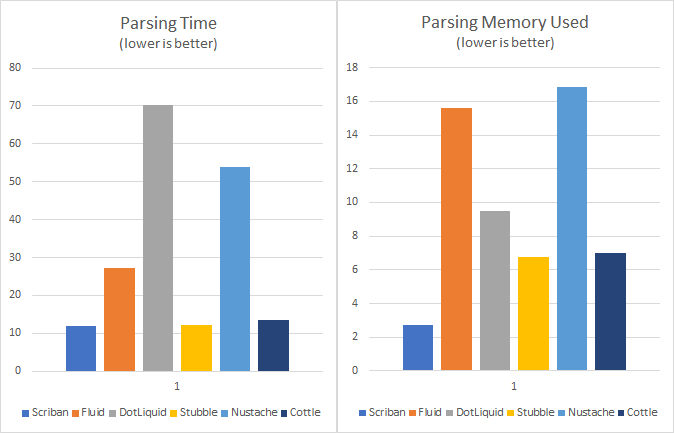
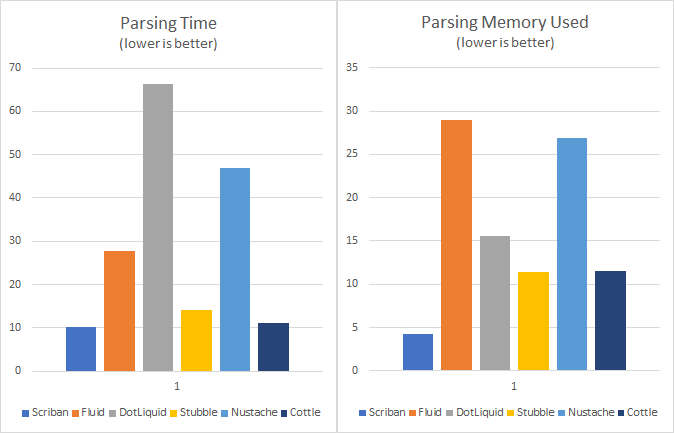
Update benchmarks

diff --git a/src/Scriban.Benchmarks/Program.cs b/src/Scriban.Benchmarks/Program.cs
@@ -1,17 +1,11 @@
 using System;
 using System.Collections.Generic;
-using System.Diagnostics;
 using System.Dynamic;
 using System.IO;
-using System.Reflection;
-using System.Text;
 using System.Threading.Tasks;
 using BenchmarkDotNet.Attributes;
 using BenchmarkDotNet.Running;
-using Microsoft.AspNetCore.Razor.Language;
-using Microsoft.CodeAnalysis;
-using Microsoft.CodeAnalysis.CSharp;
-using Microsoft.CodeAnalysis.Text;
+using DotLiquid;
 using Scriban.Functions;
 using Scriban.Runtime;
 
@@ -201,6 +195,7 @@ namespace Scriban.Benchmarks
         private const string Lorem = "Lorem ipsum dolor sit amet, consectetur adipiscing elit, sed do eiusmod tempor incididunt ut labore et dolore magna aliqua. Ut enim ad minim veniam, quis nostrud exercitation ullamco laboris nisi ut aliquip ex ea commodo consequat. Duis aute irure dolor in reprehenderit in voluptate velit esse cillum dolore eu fugiat nulla pariatur. Excepteur sint occaecat cupidatat non proident, sunt in culpa qui officia deserunt mollit anim id est laborum";
 
         private readonly List<Product> _products;
+        private readonly List<ScriptObject> _scribanProducts;
         private readonly List<DotLiquid.Hash> _dotLiquidProducts;
 
         private readonly Dictionary<Cottle.Value, Cottle.Value> _cottleStringStore;
@@ -222,15 +217,20 @@ namespace Scriban.Benchmarks
 
             const int ProductCount = 500;
             _products = new List<Product>(ProductCount);
+            _scribanProducts = new List<ScriptObject>();
             _dotLiquidProducts = new List<DotLiquid.Hash>(ProductCount);
-            
             var cottleValues = new List<Cottle.Value>();
+
             for (int i = 0; i < ProductCount; i++)
             {
                 var product = new Product("Name" + i, i, Lorem);
                 _products.Add(product);
-                var hash = DotLiquid.Hash.FromAnonymousObject(product);
+
+                var hash = new Hash() { ["name"] = product.Name, ["price"] = product.Price, ["description"] = product.Description };
                 _dotLiquidProducts.Add(hash);
+
+                var obj = new ScriptObject {["name"] = product.Name, ["price"] = product.Price, ["description"] = product.Description};
+                _scribanProducts.Add(obj);
                 cottleValues.Add(new Cottle.Values.ReflectionValue(product)); 
             }
 
@@ -256,12 +256,15 @@ namespace Scriban.Benchmarks
             // for a slightly higher efficiency and the reuse of a TemplateContext on the same thread
             //return _scribanTemplate.Render(new { products = _dotLiquidProducts });
 
-            var obj = new ScriptObject { { "products", _dotLiquidProducts } };
+            var obj = new ScriptObject { { "products", _scribanProducts } };
             _liquidTemplateContext.PushGlobal(obj);
+            _liquidTemplateContext.PushOutput(StringBuilderOutput.GetThreadInstance());
             var result = _scribanTemplate.Render(_liquidTemplateContext);
+            _liquidTemplateContext.PopOutput();
             _liquidTemplateContext.PopGlobal();
             return result;
         }
+
 
         [Benchmark(Description = "ScribanAsync")]
         public async ValueTask<string> TestScribanAsync()

diff --git a/doc/benchmarks.md b/doc/benchmarks.md
@@ -1,6 +1,6 @@
 # Benchmarks
 
-Latest benchmark update: 13 November 2017
+Latest benchmark update: 07 March 2019
 
 > NOTE: This is a micro benchmark, so results may vary vastly on use cases. The goal here is to demonstrate on a very simple example how the different engines behave
 > Also, while Scriban is compared here to `liquid` and `mustache` like templating engines, you should  keep in mind that language-wise, Scriban is allowing a lot more language constructions/expressions.
@@ -12,13 +12,13 @@ The benchmark was performed on two aspects of the libraries:
 
 Libraries used in this comparison:
 
-- Scriban (1.0.0-beta-001), Syntax: Scriban
-- [Fluid](https://github.com/sebastienros/fluid/) (Fluid.Core.1.0.0-beta-9334), Syntax: Liquid based
-- [DotLiquid](https://github.com/dotliquid/dotliquid) (2.0.200), Syntax: Liquid based
-- [Stubble](https://github.com/StubbleOrg/Stubble) (1.0.42-alpha17), Syntax: Mustache+ based
-- [Nustache](https://github.com/jdiamond/Nustache) (1.16.0.4), Syntax: Mustache based
-- [Handlebars.NET](https://github.com/rexm/Handlebars.Net) (1.9.0), Syntax: Handlebars based
-- [Cottle](https://github.com/r3c/cottle) (1.4.0.4), Syntax: Cottle
+- Scriban (2.0.0-alpha-006), Syntax: Scriban
+- [Fluid](https://github.com/sebastienros/fluid/) (Fluid.Core.1.0.0-beta-9545), Syntax: Liquid based
+- [DotLiquid](https://github.com/dotliquid/dotliquid) (2.0.298), Syntax: Liquid based
+- [Stubble](https://github.com/StubbleOrg/Stubble) (1.2.7), Syntax: Mustache+ based
+- [Nustache](https://github.com/jdiamond/Nustache) (1.16.0.8), Syntax: Mustache based
+- [Handlebars.NET](https://github.com/rexm/Handlebars.Net) (1.9.5), Syntax: Handlebars based
+- [Cottle](https://github.com/r3c/cottle) (1.4.2), Syntax: Cottle
 
 We are also adding [Razor](https://github.com/aspnet/Razor) (2.0.0), Syntax: Razor/C#, not in the charts and in the raw results. This is not a relevant comparison for the fact that it a not a "end-user" text templating engine (not safe) but it gives some insights about the best raw performance you can achieve with it for the rendering part, as it is generating very raw pre-compiler C# code that is basically issuing a bunch of `WriteLiteral(text_as_is)`, so you can't really do better here in terms of performance.
 
@@ -38,8 +38,8 @@ If you look at Razor (which is again, not really fair), `scriban` is roughly 100
 
 For the rendering part:
 
-- **Scriban is 1.2x to x14 times faster** than other templating engines
-- **Scriban takes 3x to x65 times less memory** compared to other templating engines
+- **Scriban is 1.2x to x14 times faster** than most of the other templating engines (Note that the new version of Fluid in this test is now 5-8% faster than Scriban on the rendering side)
+- **Scriban takes 3x to x65 times less memory** compared to most of other templating engines
 
 In comparison to Razor, `scriban` is only 4-5 times slower than Razor, which is fairly honorable, considering how much raw is a compiled Razor template.
 
@@ -109,30 +109,22 @@ The raw results of the benchmarks are:
 ```
 // * Summary *
 
-BenchmarkDotNet=v0.10.9, OS=Windows 10.0.16299
-Processor=Intel Core i7-7700K CPU 4.20GHz (Kaby Lake), ProcessorCount=8
-  [Host]     : .NET Framework 4.7 (CLR 4.0.30319.42000), 32bit LegacyJIT-v4.7.2556.0
-  DefaultJob : .NET Framework 4.7 (CLR 4.0.30319.42000), 32bit LegacyJIT-v4.7.2556.0
+BenchmarkDotNet=v0.11.4, OS=Windows 10.0.17134.590 (1803/April2018Update/Redstone4)
+Intel Core i7-7700K CPU 4.20GHz (Kaby Lake), 1 CPU, 8 logical and 4 physical cores
+  [Host]     : .NET Framework 4.7.2 (CLR 4.0.30319.42000), 64bit RyuJIT-v4.7.3324.0
+  DefaultJob : .NET Framework 4.7.2 (CLR 4.0.30319.42000), 64bit RyuJIT-v4.7.3324.0
 
-                    Method |         Mean |       Error |        StdDev |    Gen 0 |    Gen 1 |   Gen 2 |  Allocated |
--------------------------- |-------------:|------------:|--------------:|---------:|---------:|--------:|-----------:|
-        'Scriban - Parser' |     12.74 us |   0.0427 us |     0.0399 us |   0.6561 |        - |       - |    2.72 KB |
-      'DotLiquid - Parser' |     71.24 us |   0.2168 us |     0.2028 us |   2.1973 |        - |       - |    9.47 KB |
-        'Stubble - Parser' |     12.09 us |   0.0884 us |     0.0827 us |   1.6327 |        - |       - |    6.74 KB |
-       'Nustache - Parser' |     53.35 us |   0.0965 us |     0.0806 us |   4.0894 |        - |       - |   16.84 KB |
- 'Handlebars.NET - Parser' |  1,009.46 us |  17.2727 us |    16.1569 us |  25.3906 |   1.9531 |       - |  106.81 KB |
-         'Cottle - Parser' |     13.51 us |   0.1446 us |     0.1352 us |   1.7090 |        - |       - |    7.02 KB |
-          'Fluid - Parser' |     27.41 us |   0.2426 us |     0.2151 us |   3.8147 |        - |       - |   15.63 KB |
-          'Razor - Parser' | 14,517.78 us | 455.0174 us | 1,341.6292 us | 471.2500 | 269.6875 | 76.2500 | 2524.49 KB |
 
-// * Legends *
-  Mean      : Arithmetic mean of all measurements
-  Error     : Half of 99.9% confidence interval
-  StdDev    : Standard deviation of all measurements
-  Gen 0     : GC Generation 0 collects per 1k Operations
-  Gen 1     : GC Generation 1 collects per 1k Operations
-  Allocated : Allocated memory per single operation (managed only, inclusive, 1KB = 1024B)
-  1 us      : 1 Microsecond (0.000001 sec)
+|                    Method |         Mean |       Error |      StdDev | Gen 0/1k Op | Gen 1/1k Op | Gen 2/1k Op | Allocated Memory/Op |
+|-------------------------- |-------------:|------------:|------------:|------------:|------------:|------------:|--------------------:|
+|        'Scriban - Parser' |     10.20 us |   0.0327 us |   0.0306 us |      1.0376 |           - |           - |             4.29 KB |
+|      'DotLiquid - Parser' |     66.33 us |   0.3275 us |   0.2903 us |      3.7842 |           - |           - |            15.55 KB |
+|        'Stubble - Parser' |     14.21 us |   0.0864 us |   0.0721 us |      2.7618 |           - |           - |            11.37 KB |
+|       'Nustache - Parser' |     46.97 us |   0.4216 us |   0.3291 us |      6.5308 |           - |           - |            26.87 KB |
+| 'Handlebars.NET - Parser' |  1,645.16 us |   9.5167 us |   8.4363 us |     60.5469 |      1.9531 |           - |           254.46 KB |
+|         'Cottle - Parser' |     11.20 us |   0.1197 us |   0.1000 us |      2.8229 |           - |           - |            11.57 KB |
+|          'Fluid - Parser' |     27.74 us |   0.5366 us |   0.7164 us |      7.0190 |           - |           - |            28.94 KB |
+|          'Razor - Parser' | 13,338.41 us | 264.8221 us | 644.6136 us |           - |           - |           - |          3725.36 KB |
 ```
 
 About the results, we couldn't include Handlebars.NET in the following chart, as it is compiling to IL so it takes a lot more time to compile a template.
@@ -145,16 +137,22 @@ About the results, we couldn't include Handlebars.NET in the following chart, as
 The methodology is to use the previously compiled script and use it with a list of 500 Products to output a final string
 
 ```
-     Method |        Mean |      Error |     StdDev |     Gen 0 |   Gen 1 |   Gen 2 |   Allocated |
------------ |------------:|-----------:|-----------:|----------:|--------:|--------:|------------:|
-    Scriban |  1,490.0 us |  17.650 us |  16.509 us |   62.6302 | 25.3906 | 25.3906 |   254.55 KB |
-  DotLiquid |  7,707.7 us | 140.868 us | 131.768 us |  703.1250 | 54.6875 | 15.6250 |  2923.88 KB |
-    Stubble |  3,273.2 us |  60.054 us |  56.174 us |  613.2813 | 58.5938 | 19.5313 |  2538.35 KB |
-   Nustache | 21,855.4 us | 427.661 us | 457.592 us | 3750.0000 |       - |       - | 15460.25 KB |
- Handlebars |  3,391.3 us |  66.125 us |  78.718 us |  187.5000 | 41.9271 | 19.5313 |   782.18 KB |
-     Cottle |  2,162.3 us |  22.151 us |  20.720 us |  175.0488 | 98.1445 | 22.9492 |   890.75 KB |
-      Fluid |  1,794.1 us |  30.251 us |  28.297 us |  314.5559 | 66.8174 | 25.3906 |  1287.47 KB |
-      Razor |    326.1 us |   3.023 us |   2.680 us |   64.4531 | 34.1146 | 22.4609 |   264.66 KB |
+BenchmarkDotNet=v0.11.4, OS=Windows 10.0.17134.590 (1803/April2018Update/Redstone4)                                     
+Intel Core i7-7700K CPU 4.20GHz (Kaby Lake), 1 CPU, 8 logical and 4 physical cores                                      
+  [Host]     : .NET Framework 4.7.2 (CLR 4.0.30319.42000), 64bit RyuJIT-v4.7.3324.0                                     
+  DefaultJob : .NET Framework 4.7.2 (CLR 4.0.30319.42000), 64bit RyuJIT-v4.7.3324.0                                     
+
+|       Method |        Mean |      Error |     StdDev | Gen 0/1k Op | Gen 1/1k Op | Gen 2/1k Op | Allocated Memory/Op |
+|------------- |------------:|-----------:|-----------:|------------:|------------:|------------:|--------------------:|
+|      Scriban |    992.7 us |   4.068 us |   3.805 us |     44.9219 |     17.5781 |     17.5781 |           213.04 KB |
+| ScribanAsync |  4,268.2 us |  18.446 us |  16.352 us |     23.4375 |           - |           - |           212.93 KB |
+|    DotLiquid |  7,775.8 us |  22.148 us |  18.494 us |    953.1250 |     93.7500 |           - |          4050.74 KB |
+|      Stubble |  5,014.9 us |  19.147 us |  17.910 us |    656.2500 |           - |           - |          2796.59 KB |
+|     Nustache | 22,360.3 us | 216.415 us | 202.435 us |   5562.5000 |           - |           - |          22964.2 KB |
+|   Handlebars |  3,060.3 us |  24.703 us |  23.107 us |    277.3438 |     31.2500 |     11.7188 |           1188.8 KB |
+|       Cottle |  2,039.5 us |  11.350 us |  10.617 us |    218.7500 |    109.3750 |     11.7188 |          1329.83 KB |
+|        Fluid |    913.5 us |   2.231 us |   1.977 us |     56.6406 |     20.5078 |     19.5313 |            245.3 KB |
+|        Razor |    314.3 us |   3.107 us |   2.595 us |     58.1055 |     29.2969 |     19.0430 |           253.57 KB |
  ```
 
 Note that for Stubble, It was not possible to match the behavior of the other engines, so it is including the parsing time (which is anyway insignificant compare to the rendering time in this particular case)
